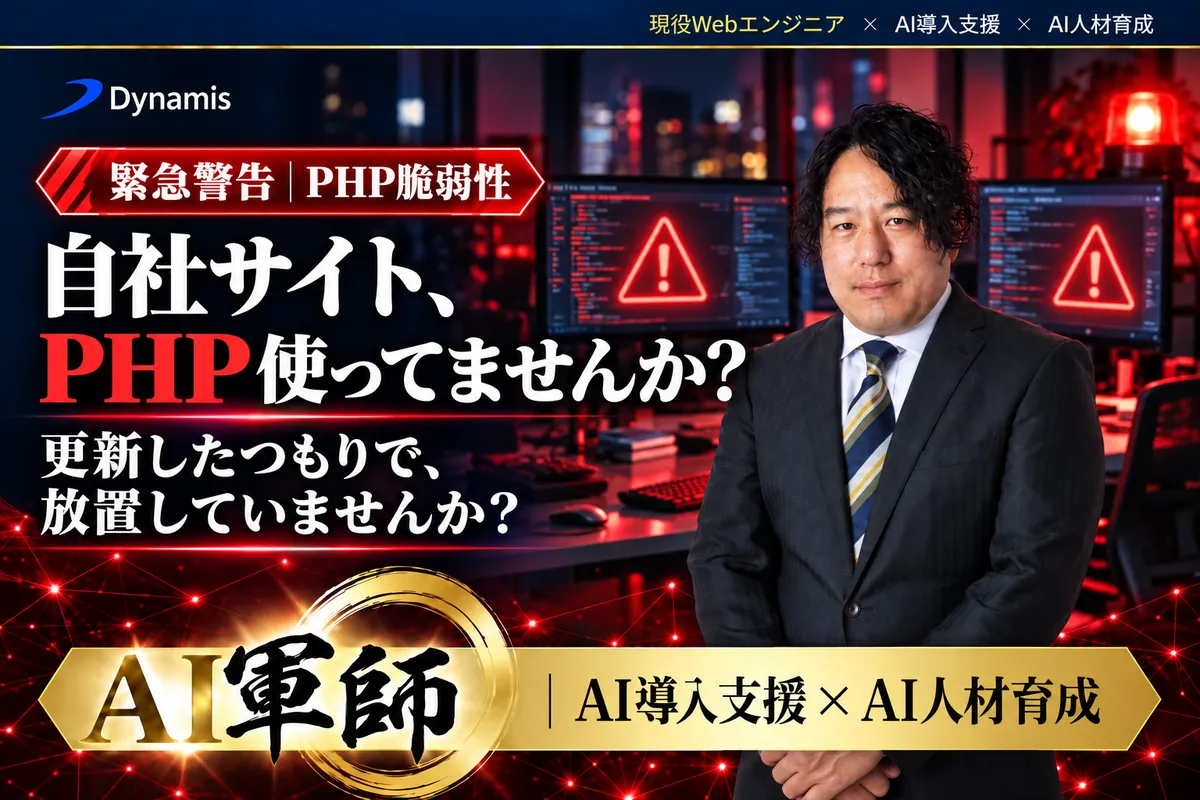
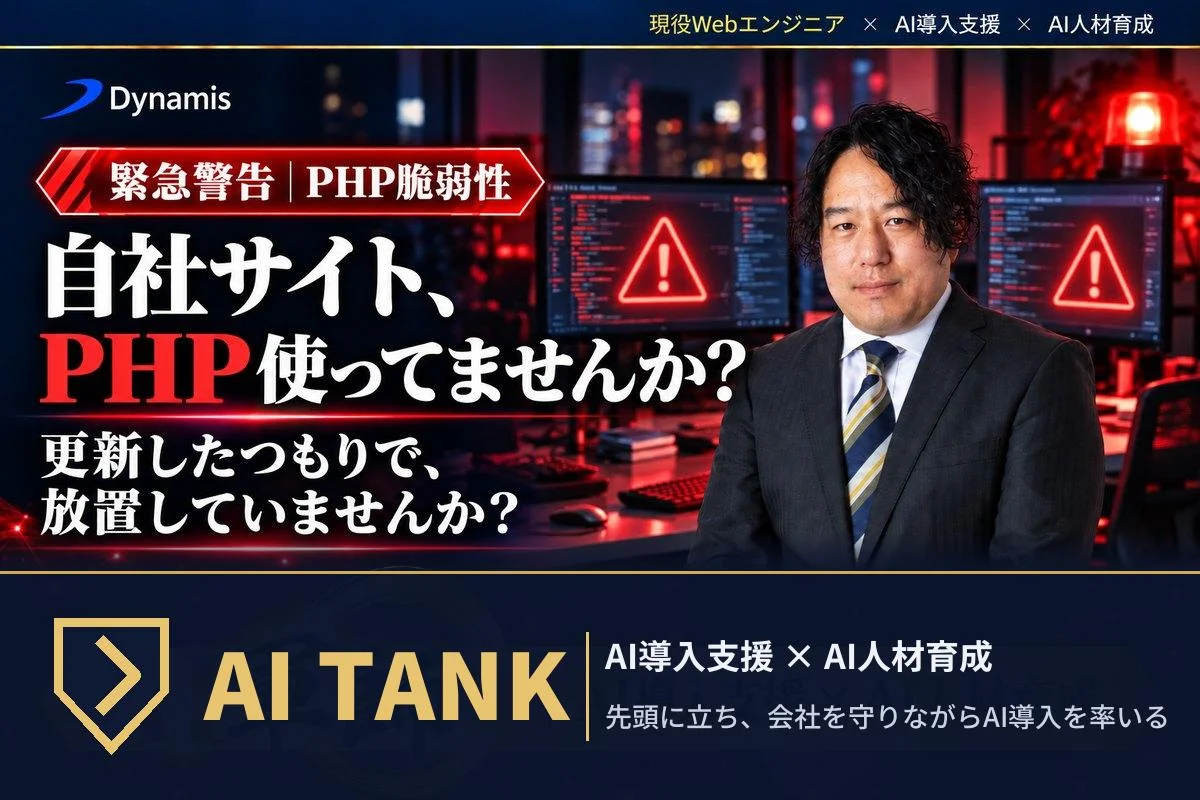
ブランド名「AI軍師」を「AI TANK」に変更（他社の登録商標のため）
主要箇所に補足「先頭に立ち、会社を守りながらAI導入を率いる」を追加。
/security の FV 画像のロゴも差し替え。

diff --git a/src/data/cases.js b/src/data/cases.js
@@ -7,7 +7,7 @@
 //   ・不動産広告の会社（短い事例）＝社名・数字は許諾待ちなので数字を書かない
 
 export const casesPage = {
-  title: "事例｜DDDynamis・AI軍師",
+  title: "事例｜DDDynamis・AI TANK",
   description:
     "AI導入支援・研修の事例です。広告代理店の外注費ゼロ化、不動産管理会社の書類作成の自動化と社内展開、美容院のオーナーによる顧客カルテの自作など、業種を問わず現場の業務がAIで変わり始めています。",
   lead: "業種を問わず、現場の業務がAIで変わり始めています。それぞれの会社が何に取り組み、どこまで変わったのかをご紹介します。",

diff --git a/src/components/consultation/DocumentForm.jsx b/src/components/consultation/DocumentForm.jsx
@@ -15,7 +15,7 @@ const FIELD_IDS = {
 };
 const SUBJECT = "【資料請求】";
 const MATERIALS_URL = "/document/materials";
-const COURSES = ["一騎当千コース（一人を強化）", "AI軍師コース（組織で活用）", "まだ決めていない"];
+const COURSES = ["一騎当千コース（一人を強化）", "AI TANKコース（組織で活用）", "まだ決めていない"];
 const SIZES = ["1名（個人・一人企業）", "2〜5名", "6〜30名", "31〜100名", "101名以上"];
 const SOURCES = ["X", "Instagram", "Facebook", "名刺", "BNI", "セミナー・研修", "検索", "ご紹介", "その他"];
 
